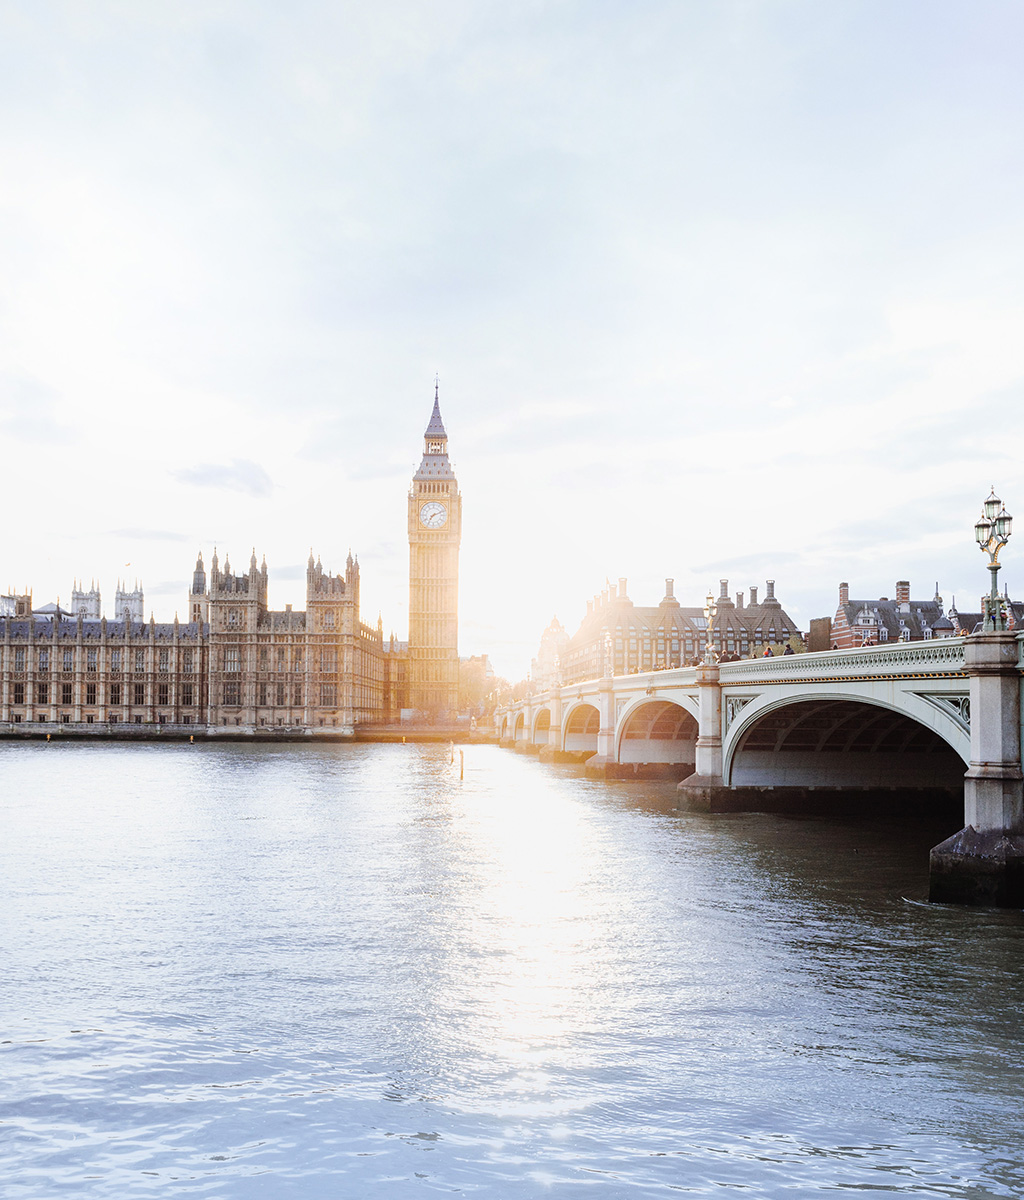
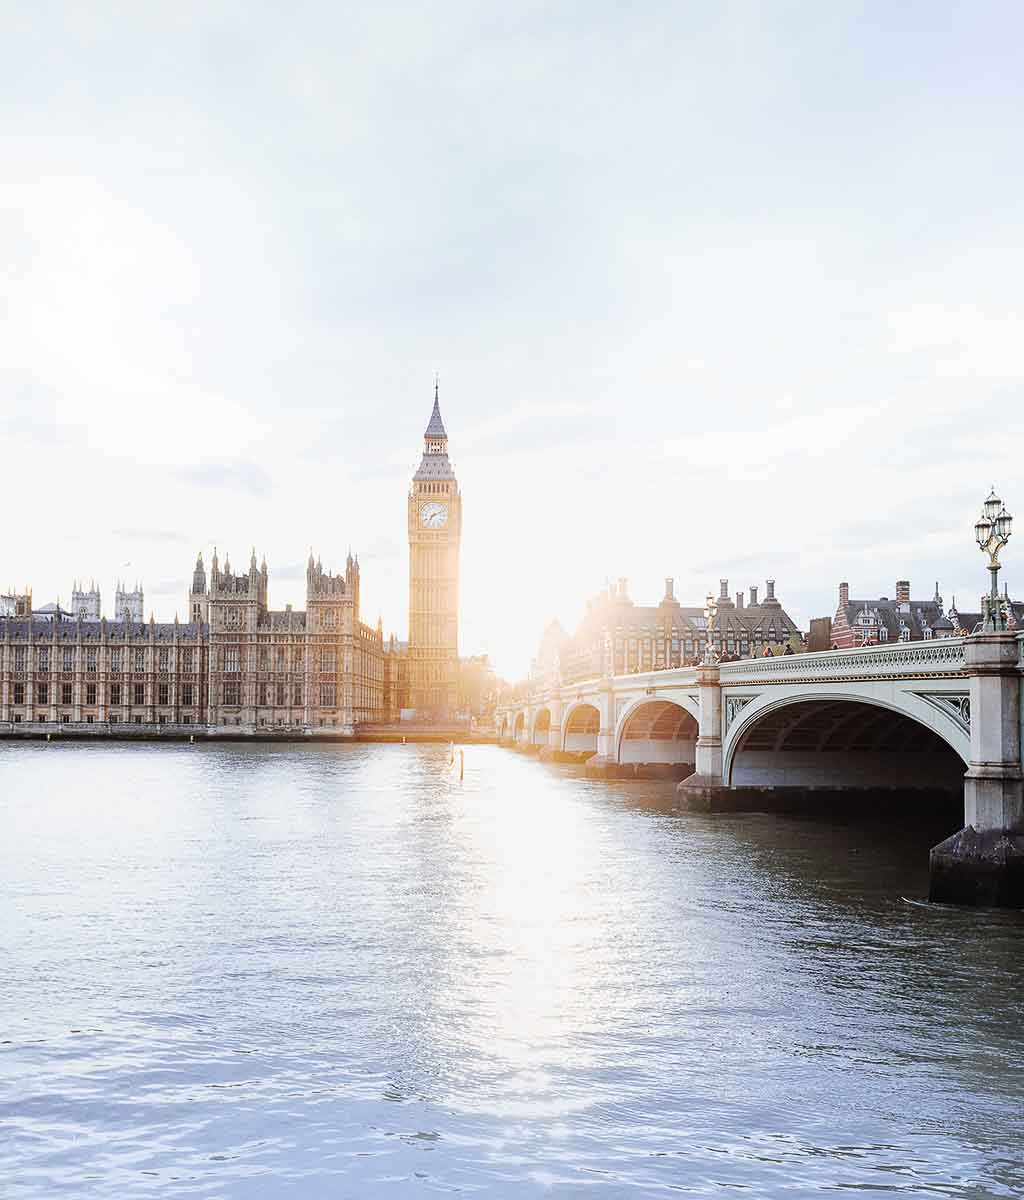
Added testimonial and why-us images

diff --git a/assets/css/main.css b/assets/css/main.css
@@ -1729,7 +1729,7 @@ section {
 --------------------------------------------------------------*/
 .testimonials {
   padding: 80px 0;
-  background: url("../img/testimonial2.jpeg") no-repeat;
+  background: url("../img/testimonials-bg.jpg") no-repeat;
   background-position: center center;
   background-size: cover;
   position: relative;
